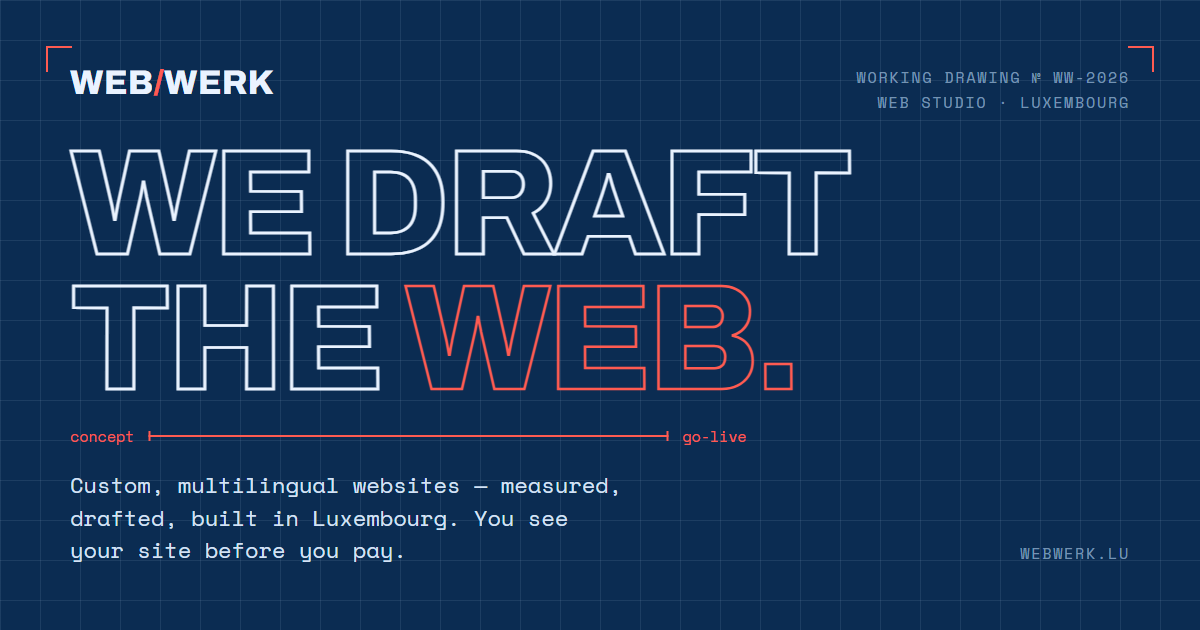
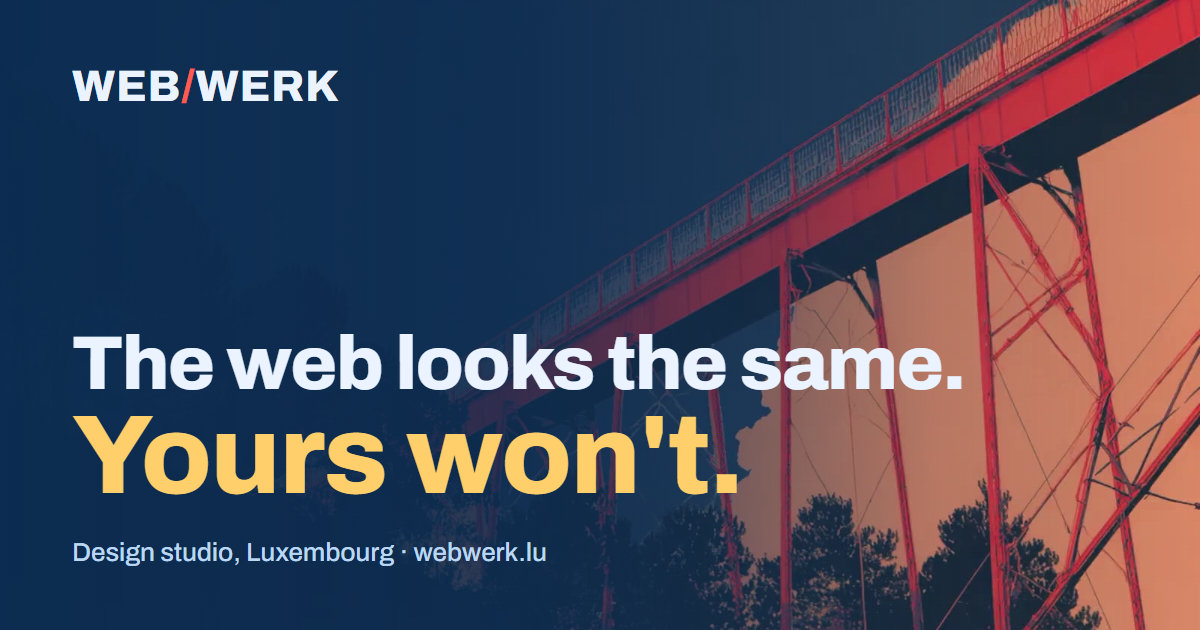
Finish: privacy text for the business field, new social card, reviewed FR/DE
- legal/: what the form collects now includes the optional business name
  (EN/FR/DE, both the "what we collect" and the Formspree paragraph);
  "last updated" September 2026.
- og.png: the link-preview card in the new design (the red bridge,
  WEB/WERK, "The web looks the same. Yours won't."), rendered from
  og-card.html (studio/tools/og.mjs, local only).
- assets/i18n.js: fixes from a review of the FR/DE draft (no grammar errors
  found): FR form-failure line and narrow no-break space before the colon,
  "recherche dans les archives", "Envoi en cours"; DE formal failure line,
  "Online-Einreichung", "in der Forschung", "Vielen Dank".

diff --git a/legal/index.html b/legal/index.html
@@ -63,7 +63,7 @@
   <div class="lng" data-lng="en">
     <h1>Legal &amp; privacy</h1>
     <p class="sub">Legal notice, privacy policy and terms for webwerk.lu.</p>
-    <p class="updated">Last updated: July 2026</p>
+    <p class="updated">Last updated: September 2026</p>
 
     <section>
       <h2><span class="fig">A</span>Legal notice</h2>
@@ -89,9 +89,9 @@
     <section>
       <h2><span class="fig">B</span>Privacy</h2>
       <p><b>Data controller.</b> Lux Lucis Consulting S.à r.l. S, at the address above — <a href="mailto:jean@webwerk.lu">jean@webwerk.lu</a>.</p>
-      <p><b>What we collect.</b> If you use the contact form or email us, we receive the name, email address and message you provide. Nothing else — this site sets no advertising or tracking cookies.</p>
+      <p><b>What we collect.</b> If you use the contact form or email us, we receive the name, email address and message you provide, and your business name if you add it. Nothing else — this site sets no advertising or tracking cookies.</p>
       <p><b>Why, and legal basis.</b> We use it solely to respond to your enquiry and, where relevant, to prepare the proposal or demo you asked for (Art. 6(1)(b) and 6(1)(f) GDPR — steps taken at your request and our legitimate interest in replying).</p>
-      <p><b>How the form works.</b> The contact form sends your message via <a href="https://formspree.io/legal/privacy-policy/" target="_blank" rel="noopener">Formspree, Inc.</a> (USA), which processes the name, email address and message you enter on our behalf and delivers them to our mailbox; this may involve a transfer of that data to the United States, governed by Formspree's data-processing terms. If the send fails, the form falls back to opening your own email program instead — and you can always email us directly at jean@webwerk.lu. Mail we receive is hosted with Zoho (EU data centre).</p>
+      <p><b>How the form works.</b> The contact form sends your message via <a href="https://formspree.io/legal/privacy-policy/" target="_blank" rel="noopener">Formspree, Inc.</a> (USA), which processes the name, email address, business name (if given) and message you enter on our behalf and delivers them to our mailbox; this may involve a transfer of that data to the United States, governed by Formspree's data-processing terms. If the send fails, the form falls back to opening your own email program instead — and you can always email us directly at jean@webwerk.lu. Mail we receive is hosted with Zoho (EU data centre).</p>
       <p><b>Analytics.</b> We use GoatCounter, a privacy-friendly, cookieless tool that records anonymous, aggregated visit statistics (page views, referrer, country). It sets no cookies and collects no data that identifies you.</p>
       <p><b>Hosting.</b> The site runs on GitHub Pages; GitHub may process technical connection data (such as your IP address) in server logs for security and delivery.</p>
       <p><b>Retention.</b> We keep enquiry correspondence only as long as needed to handle your request, plus a reasonable follow-up period, then delete it.</p>
@@ -113,7 +113,7 @@
   <div class="lng" data-lng="fr" hidden>
     <h1>Mentions &amp; confidentialité</h1>
     <p class="sub">Mentions légales, politique de confidentialité et conditions pour webwerk.lu.</p>
-    <p class="updated">Dernière mise à jour : juillet 2026</p>
+    <p class="updated">Dernière mise à jour : septembre 2026</p>
 
     <section>
       <h2><span class="fig">A</span>Mentions légales</h2>
@@ -139,9 +139,9 @@
     <section>
       <h2><span class="fig">B</span>Confidentialité</h2>
       <p><b>Responsable du traitement.</b> Lux Lucis Consulting S.à r.l. S, à l’adresse ci-dessus — <a href="mailto:jean@webwerk.lu">jean@webwerk.lu</a>.</p>
-      <p><b>Données collectées.</b> Si vous utilisez le formulaire de contact ou nous écrivez, nous recevons le nom, l’adresse e-mail et le message que vous fournissez. Rien d’autre — ce site ne dépose aucun cookie publicitaire ou de suivi.</p>
+      <p><b>Données collectées.</b> Si vous utilisez le formulaire de contact ou nous écrivez, nous recevons le nom, l’adresse e-mail et le message que vous fournissez, ainsi que le nom de votre entreprise si vous l’indiquez. Rien d’autre — ce site ne dépose aucun cookie publicitaire ou de suivi.</p>
       <p><b>Finalité et base légale.</b> Ces informations servent uniquement à répondre à votre demande et, le cas échéant, à préparer la proposition ou la démo sollicitée (art. 6(1)(b) et 6(1)(f) du RGPD — mesures prises à votre demande et notre intérêt légitime à vous répondre).</p>
-      <p><b>Fonctionnement du formulaire.</b> Le formulaire de contact transmet votre message via <a href="https://formspree.io/legal/privacy-policy/" target="_blank" rel="noopener">Formspree, Inc.</a> (États-Unis), qui traite pour notre compte le nom, l’adresse e-mail et le message saisis et nous les remet dans notre boîte aux lettres ; cela peut impliquer un transfert de ces données vers les États-Unis, encadré par les conditions de traitement des données de Formspree. En cas d’échec de l’envoi, le formulaire ouvre à la place votre propre logiciel de messagerie — et vous pouvez toujours nous écrire directement à jean@webwerk.lu. Les e-mails reçus sont hébergés chez Zoho (centre de données dans l’UE).</p>
+      <p><b>Fonctionnement du formulaire.</b> Le formulaire de contact transmet votre message via <a href="https://formspree.io/legal/privacy-policy/" target="_blank" rel="noopener">Formspree, Inc.</a> (États-Unis), qui traite pour notre compte le nom, l’adresse e-mail, le nom de l’entreprise (s’il est indiqué) et le message saisis et nous les remet dans notre boîte aux lettres ; cela peut impliquer un transfert de ces données vers les États-Unis, encadré par les conditions de traitement des données de Formspree. En cas d’échec de l’envoi, le formulaire ouvre à la place votre propre logiciel de messagerie — et vous pouvez toujours nous écrire directement à jean@webwerk.lu. Les e-mails reçus sont hébergés chez Zoho (centre de données dans l’UE).</p>
       <p><b>Statistiques.</b> Nous utilisons GoatCounter, un outil respectueux de la vie privée et sans cookie, qui enregistre des statistiques de visite anonymes et agrégées (pages vues, source, pays). Il ne dépose aucun cookie et ne collecte aucune donnée vous identifiant.</p>
       <p><b>Hébergement.</b> Le site est hébergé sur GitHub Pages ; GitHub peut traiter des données techniques de connexion (telles que l’adresse IP) dans ses journaux de serveur, à des fins de sécurité et de diffusion.</p>
       <p><b>Conservation.</b> Nous conservons la correspondance liée à votre demande uniquement le temps nécessaire à son traitement, plus une période de suivi raisonnable, puis la supprimons.</p>
@@ -163,7 +163,7 @@
   <div class="lng" data-lng="de" hidden>
     <h1>Impressum &amp; Datenschutz</h1>
     <p class="sub">Impressum, Datenschutzerklärung und Nutzungsbedingungen für webwerk.lu.</p>
-    <p class="updated">Zuletzt aktualisiert: Juli 2026</p>
+    <p class="updated">Zuletzt aktualisiert: September 2026</p>
 
     <section>
       <h2><span class="fig">A</span>Impressum</h2>
@@ -189,9 +189,9 @@
     <section>
       <h2><span class="fig">B</span>Datenschutz</h2>
       <p><b>Verantwortlicher.</b> Lux Lucis Consulting S.à r.l. S, unter der oben genannten Anschrift — <a href="mailto:jean@webwerk.lu">jean@webwerk.lu</a>.</p>
-      <p><b>Welche Daten wir erheben.</b> Wenn Sie das Kontaktformular nutzen oder uns schreiben, erhalten wir den von Ihnen angegebenen Namen, die E-Mail-Adresse und die Nachricht. Mehr nicht — diese Website setzt keine Werbe- oder Tracking-Cookies.</p>
+      <p><b>Welche Daten wir erheben.</b> Wenn Sie das Kontaktformular nutzen oder uns schreiben, erhalten wir den von Ihnen angegebenen Namen, die E-Mail-Adresse und die Nachricht sowie, falls angegeben, den Namen Ihres Unternehmens. Mehr nicht — diese Website setzt keine Werbe- oder Tracking-Cookies.</p>
       <p><b>Zweck und Rechtsgrundlage.</b> Wir verwenden diese Angaben ausschließlich, um Ihre Anfrage zu beantworten und, sofern zutreffend, das angefragte Angebot oder die Demo vorzubereiten (Art. 6 Abs. 1 lit. b und lit. f DSGVO — Maßnahmen auf Ihre Anfrage hin sowie unser berechtigtes Interesse, Ihnen zu antworten).</p>
-      <p><b>Wie das Formular funktioniert.</b> Das Kontaktformular übermittelt Ihre Nachricht über <a href="https://formspree.io/legal/privacy-policy/" target="_blank" rel="noopener">Formspree, Inc.</a> (USA), das den eingegebenen Namen, die E-Mail-Adresse und die Nachricht in unserem Auftrag verarbeitet und an unser Postfach zustellt; dies kann eine Übermittlung dieser Daten in die USA umfassen, geregelt durch die Auftragsverarbeitungsbedingungen von Formspree. Schlägt der Versand fehl, öffnet das Formular stattdessen Ihr eigenes E-Mail-Programm — und Sie können uns jederzeit direkt unter jean@webwerk.lu schreiben. Eingehende E-Mails werden bei Zoho (Rechenzentrum in der EU) gehostet.</p>
+      <p><b>Wie das Formular funktioniert.</b> Das Kontaktformular übermittelt Ihre Nachricht über <a href="https://formspree.io/legal/privacy-policy/" target="_blank" rel="noopener">Formspree, Inc.</a> (USA), das den eingegebenen Namen, die E-Mail-Adresse, den Unternehmensnamen (falls angegeben) und die Nachricht in unserem Auftrag verarbeitet und an unser Postfach zustellt; dies kann eine Übermittlung dieser Daten in die USA umfassen, geregelt durch die Auftragsverarbeitungsbedingungen von Formspree. Schlägt der Versand fehl, öffnet das Formular stattdessen Ihr eigenes E-Mail-Programm — und Sie können uns jederzeit direkt unter jean@webwerk.lu schreiben. Eingehende E-Mails werden bei Zoho (Rechenzentrum in der EU) gehostet.</p>
       <p><b>Statistik.</b> Wir verwenden GoatCounter, ein datenschutzfreundliches, cookieloses Tool, das anonyme, aggregierte Besuchsstatistiken erfasst (Seitenaufrufe, Herkunft, Land). Es setzt keine Cookies und erhebt keine Daten, die Sie identifizieren.</p>
       <p><b>Hosting.</b> Die Website läuft auf GitHub Pages; GitHub kann technische Verbindungsdaten (etwa Ihre IP-Adresse) in Server-Protokollen zu Zwecken der Sicherheit und Auslieferung verarbeiten.</p>
       <p><b>Speicherdauer.</b> Wir bewahren den Schriftverkehr zu Ihrer Anfrage nur so lange auf, wie es zur Bearbeitung erforderlich ist, zuzüglich einer angemessenen Nachlauffrist, und löschen ihn anschließend.</p>

diff --git a/og-card.html b/og-card.html
@@ -1,42 +1,28 @@
 <!DOCTYPE html>
+<!-- Source of og.png (the link-preview card, 1200x630). Render: serve the repo root and screenshot this page
+     at 1200x630 (studio/tools/og.mjs does it). Same design as the home page: the red bridge, WEB/WERK, the line. -->
 <html><head><meta charset="UTF-8" />
 <meta name="robots" content="noindex,nofollow" />
-<link rel="stylesheet" href="/fonts/fonts.css" />
+<link rel="stylesheet" href="/fonts/archivo-var.css" />
 <style>
   *{margin:0;padding:0;box-sizing:border-box}
-  body{width:1200px;height:630px;overflow:hidden;background:#0b2c52;color:#bcd7f2;font-family:'Space Mono',monospace;
-    background-image:linear-gradient(rgba(188,215,242,.10) 1px,transparent 1px),linear-gradient(90deg,rgba(188,215,242,.10) 1px,transparent 1px);background-size:40px 40px;position:relative}
-  .pad{padding:64px 70px;height:100%;display:flex;flex-direction:column;justify-content:space-between}
-  .top{display:flex;justify-content:space-between;align-items:flex-start}
-  .brand{font-family:'Archivo',sans-serif;font-weight:800;font-size:34px;color:#eaf3ff;letter-spacing:.01em}
-  .brand .x{color:#ff5b51}
-  .plate{font-size:15px;letter-spacing:.12em;text-transform:uppercase;color:rgba(188,215,242,.6);text-align:right;line-height:1.7}
-  h1{font-family:'Archivo',sans-serif;font-weight:800;font-size:150px;line-height:.9;letter-spacing:-.03em;text-transform:uppercase;color:transparent;-webkit-text-stroke:2.5px #eaf3ff}
-  h1 em{font-style:normal;-webkit-text-stroke:2.5px #ff5b51}
-  .dim{display:flex;align-items:center;gap:14px;margin-top:18px;color:#ff5b51;font-size:15px}
-  .dim .bar{flex:1;max-width:520px;height:2px;background:#ff5b51;position:relative}
-  .dim .bar::before,.dim .bar::after{content:"";position:absolute;top:-4px;width:2px;height:10px;background:#ff5b51}
-  .dim .bar::before{left:0}.dim .bar::after{right:0}
-  .bottom{display:flex;justify-content:space-between;align-items:flex-end}
-  .sub{font-size:22px;color:#d4e2f5;max-width:560px}
-  .hand{font-family:'Caveat',cursive;color:#ffcf6b;font-size:40px;transform:rotate(-3deg)}
-  .tl,.tr{position:absolute;width:26px;height:26px;border:2px solid #ff5b51}
-  .tl{top:46px;left:46px;border-right:0;border-bottom:0}.tr{top:46px;right:46px;border-left:0;border-bottom:0}
+  body{width:1200px;height:630px;overflow:hidden;background:#0b2c52;color:#eaf3ff;font-family:Archivo,sans-serif;position:relative}
+  .img{position:absolute;inset:0;background:url(/assets/hero/bridge.jpg) 70% 40%/cover no-repeat}
+  .img::after{content:"";position:absolute;inset:0;background:linear-gradient(90deg,rgba(11,44,82,.94) 0,rgba(11,44,82,.82) 42%,rgba(11,44,82,.2) 78%,rgba(11,44,82,.05) 100%)}
+  .pad{position:relative;height:100%;padding:64px 72px;display:flex;flex-direction:column;justify-content:space-between}
+  .mark{font-weight:800;font-size:44px;letter-spacing:.02em;line-height:1}
+  .x{color:#ff5b51}
+  h1{font-weight:800;font-size:76px;line-height:1.02;letter-spacing:-.02em}
+  h1 em{display:block;font-style:normal;color:#ffcf6b;font-size:112px;line-height:.98}
+  .sub{margin-top:26px;font-size:26px;font-weight:500;color:#bcd7f2}
 </style></head>
 <body>
-  <span class="tl"></span><span class="tr"></span>
+  <div class="img"></div>
   <div class="pad">
-    <div class="top">
-      <div class="brand">WEB<span class="x">/</span>WERK</div>
-      <div class="plate">Working drawing № WW-2026<br>Web studio · Luxembourg</div>
-    </div>
+    <div class="mark">WEB<span class="x">/</span>WERK</div>
     <div>
-      <h1>We draft<br>the <em>web.</em></h1>
-      <div class="dim"><span>concept</span><span class="bar"></span><span>go-live</span></div>
-    </div>
-    <div class="bottom">
-      <div class="sub">Custom, multilingual websites — measured, drafted, built in Luxembourg. You see your site before you pay.</div>
-      <div class="plate" style="text-align:right">webwerk.lu</div>
+      <h1>The web looks the same.<em>Yours won't.</em></h1>
+      <p class="sub">Design studio, Luxembourg · webwerk.lu</p>
     </div>
   </div>
 </body></html>

diff --git a/assets/i18n.js b/assets/i18n.js
@@ -1,7 +1,7 @@
 // Webwerk translations. English lives in index.html; FR and DE here, one line per key.
 // A missing key shows the English. Keys: data-t="..." in index.html, plus the ones used from script:
 // cap0..cap4 (the line under each site in "We built"), f_sending, f_sent, f_thanks, f_failed.
-// DRAFT 2026-09-27: needs a native read before merge. Wording reuses the previous site's approved
+// 2026-09-28: reviewed (grammar, register, typography); a native read by Can is still the final word. Wording reuses the previous site's approved
 // phrases where they fit (FR "Construisons le vôtre", "revue de recherche"; DE "Bauen wir Ihre Seite").
 window.WW_I18N = {
   fr: {
@@ -18,9 +18,9 @@ window.WW_I18N = {
     end3: 'un logiciel de paie',
     and: 'et',
     end4: 'un cabinet de conseil',
-    cap0: 'Une revue de recherche en libre accès, avec soumission des articles et archives consultables.',
+    cap0: 'Une revue de recherche en libre accès, avec soumission d’articles et recherche dans les archives.',
     cap1: 'Le site d’un programme de mentorat en recherche.',
-    cap2: 'Un catalogue de 1 285 livres de 620 intervenants TED, chacun associé à sa conférence.',
+    cap2: 'Un catalogue de 1 285 livres de 620 intervenants TED, chacun relié à la conférence de son auteur.',
     cap3: 'Un logiciel de conformité de la paie pour les employeurs de travailleurs frontaliers.',
     cap4: 'Le site d’un cabinet de conseil, avec sa série de publications.',
     contact: 'Construisons le vôtre.',
@@ -29,10 +29,10 @@ window.WW_I18N = {
     f_business: 'Votre entreprise',
     f_message: 'Message',
     f_send: 'Envoyer',
-    f_sending: 'Envoi…',
+    f_sending: 'Envoi en cours…',
     f_sent: 'Envoyé ✓',
     f_thanks: 'Merci. Votre message nous est bien parvenu.',
-    f_failed: 'L’envoi n’a pas abouti : votre messagerie s’ouvre avec le message déjà rempli.',
+    f_failed: 'L’envoi n’a pas abouti : votre messagerie s’ouvre avec votre message prêt à partir.',
     legal: 'Mentions légales'
   },
   de: {
@@ -49,8 +49,8 @@ window.WW_I18N = {
     end3: 'eine Lohnsoftware',
     and: 'und',
     end4: 'eine Beratungsfirma',
-    cap0: 'Ein frei zugängliches Forschungsjournal mit Einreichungen und durchsuchbarem Archiv.',
-    cap1: 'Die Website eines Mentoring-Programms für Forschung.',
+    cap0: 'Ein frei zugängliches Forschungsjournal mit Online-Einreichung und durchsuchbarem Archiv.',
+    cap1: 'Die Website eines Mentoring-Programms in der Forschung.',
     cap2: 'Ein Katalog mit 1.285 Büchern von 620 TED-Speakern, jedes mit dem passenden Talk.',
     cap3: 'Lohn-Compliance-Software für Arbeitgeber mit Grenzgängern.',
     cap4: 'Die Website einer Beratungsfirma mit ihrer Publikationsreihe.',
@@ -62,8 +62,8 @@ window.WW_I18N = {
     f_send: 'Senden',
     f_sending: 'Wird gesendet…',
     f_sent: 'Gesendet ✓',
-    f_thanks: 'Danke. Ihre Nachricht ist bei uns angekommen.',
-    f_failed: 'Das hat nicht geklappt: Ihr E-Mail-Programm öffnet sich mit der ausgefüllten Nachricht.',
+    f_thanks: 'Vielen Dank. Ihre Nachricht ist bei uns angekommen.',
+    f_failed: 'Das Senden hat nicht funktioniert. Ihr E-Mail-Programm öffnet sich mit Ihrer vorbereiteten Nachricht.',
     legal: 'Impressum'
   }
 };
